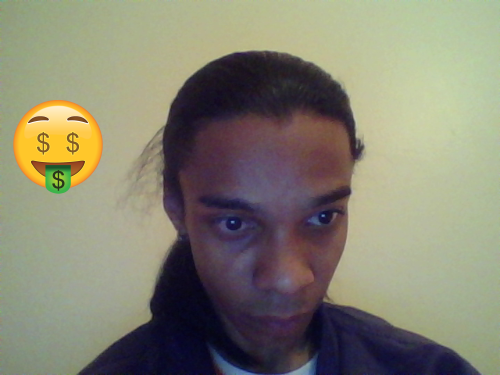
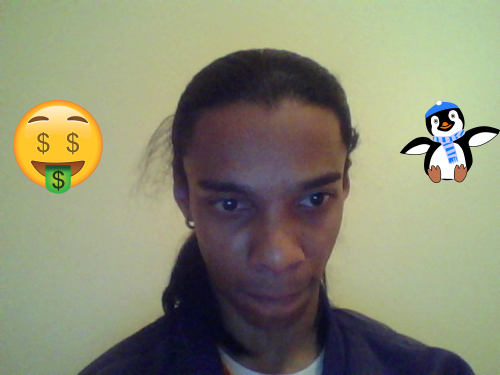
image merge complete

diff --git a/js/pic.js b/js/pic.js
@@ -81,7 +81,7 @@ window.onload = function()
 				var emoji2 = document.getElementById("emoji2");
 				var left2 = parseInt(emoji2.style.left);
 				var top2 = parseInt(emoji2.style.top);
-				context2.drawImage(emoji2,left2 + 100,top2,100,100);
+				context2.drawImage(emoji2,left2,top2,100,100);
 			}
 		}
 	}

diff --git a/webupload.php b/webupload.php
@@ -10,11 +10,14 @@
 
     $db = DB::getInstance();
     $user = new user();
+
     $imgnum = $db->get("gallery",array('user_id', '=', $user->data()->user_id));
     $img_id = $imgnum->count() + 1;
+    $user_id = $user->data()->user_id;
+    
     $data = explode( ',', $_POST["img64"] );
     $test = base64_decode($data[1]);
-    $user_id = $user->data()->user_id;
+    
     file_put_contents("images/gallary/user_".$user_id."_image_".$img_id.".png", $test);
     $dest= imagecreatefrompng("images/gallary/user_".$user_id."_image_".$img_id.".png");
 

diff --git a/index.php b/index.php
@@ -20,6 +20,7 @@
 			<link rel="stylesheet" type="text/css" media="screen" href="css/main.css" />
 		</head>
 		<body>
+		<header>
 			<div class="navbar">
 				<ul>
 					<li class="left"><a href="index.php">Home</a></li>
@@ -29,7 +30,11 @@
 				</ul>
 			</div>
 			<img class="logo" src="images/site_images/logo.png" alt="logo">
-
+		</header>
+			whats good world
+		<footer>
+			
+		</footer>
 		</body>
 		</html>
 
